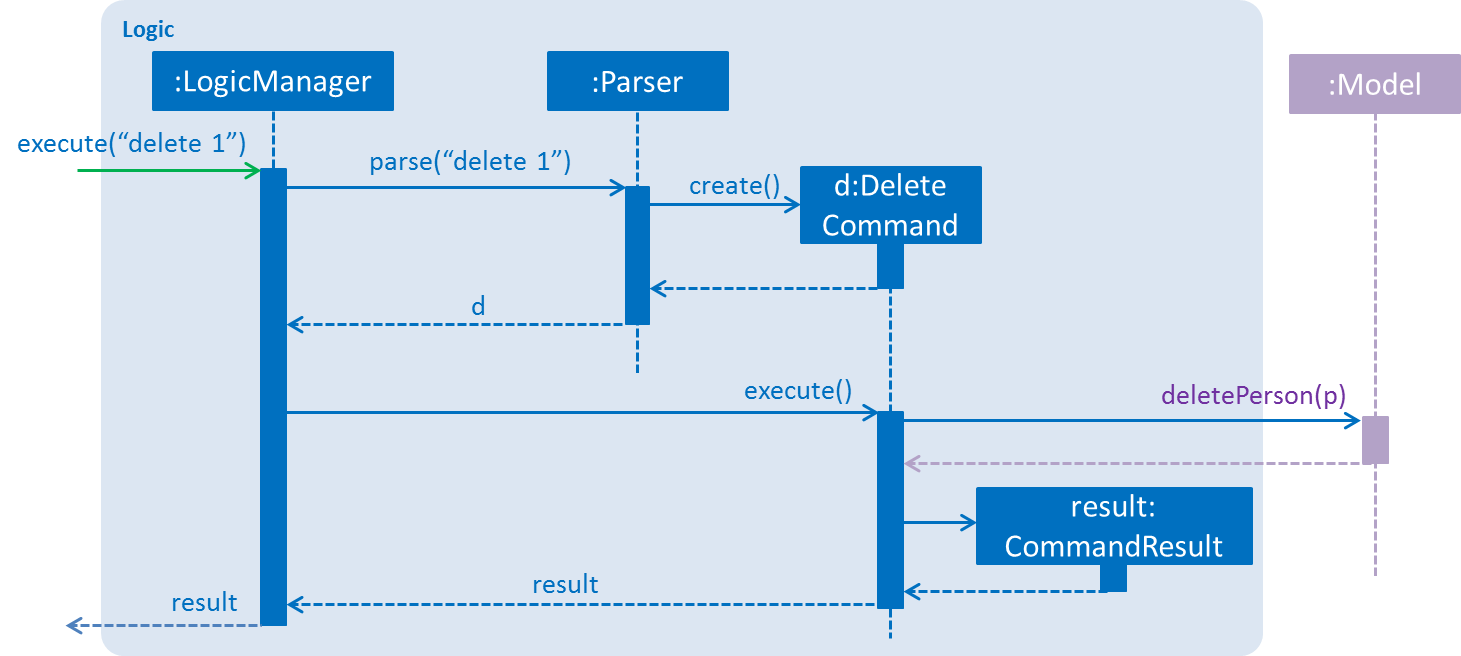
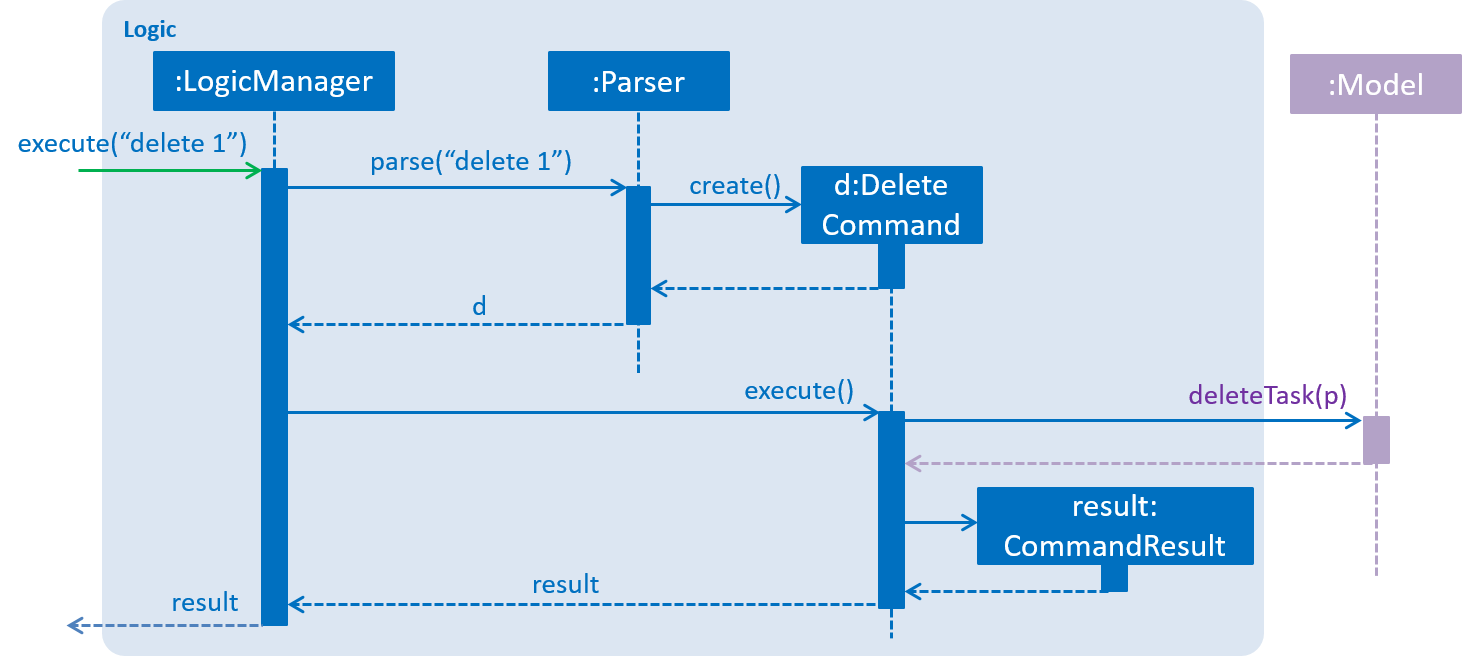
Update other diagrams in Developer Guide

diff --git a/docs/DeveloperGuide.md b/docs/DeveloperGuide.md
@@ -79,7 +79,7 @@ command `delete 3`.
 
 <img src="images\SDforDeletePerson.png" width="800">
 
->Note how the `Model` simply raises a `AddressBookChangedEvent` when the Address Book data are changed,
+>Note how the `Model` simply raises a `TaskManagerChangedEvent` when the Task Manager data are changed,
  instead of asking the `Storage` to save the updates to the hard disk.
 
 The diagram below shows how the `EventsCenter` reacts to that event, which eventually results in the updates
@@ -135,7 +135,8 @@ Given below is the Sequence Diagram for interactions within the `Logic` componen
 
 The `Model`,
 * stores a `UserPref` object that represents the user's preferences.
-* stores the Address Book data.
+* stores the Task Manager data.
+* stores the Task Manager states.
 * exposes a `UnmodifiableObservableList<ReadOnlyPerson>` that can be 'observed' e.g. the UI can be bound to this list
   so that the UI automatically updates when the data in the list change.
 * does not depend on any of the other three components.
@@ -148,7 +149,7 @@ The `Model`,
 
 The `Storage` component,
 * can save `UserPref` objects in json format and read it back.
-* can save the Address Book data in xml format and read it back.
+* can save the Task Manager data in xml format and read it back.
 
 ### Common classes
 
@@ -241,7 +242,7 @@ Here are the steps to create a new release.
    
 ### Managing Dependencies
 
-A project often depends on third-party libraries. For example, Address Book depends on the
+A project often depends on third-party libraries. For example, Task Manager depends on the
 [Jackson library](http://wiki.fasterxml.com/JacksonHome) for XML parsing. Managing these _dependencies_
 can be automated using Gradle. For example, Gradle can download the dependencies automatically, which
 is better than these alternatives.<br>
@@ -267,7 +268,7 @@ Priority | As a ... | I want to ... | So that I can...
 `* *` | user | have some flexibility in the command format | do operations in an intuitively way
 `* * ` | user | add tags to a task | categorize my tasks better
 `* * ` | user with many tasks | filter tasks by attributes such as start time, deadline, tag, and priority | locate some tasks easily
-`*` | user with many tasks in the address book | sort tasks by date or priority level  | know my most important upcoming tasks or know what needs to be done soon. 
+`*` | user with many tasks in the task manager | sort tasks by date or priority level  | know my most important upcoming tasks or know what needs to be done soon. 
 `* ` | user | mark a task as done | monitor my task progression
 `* ` | user | add a recurring task | save my troubles to retype my tasks
 `* ` | user | add priority level to a task| focus on more important tasks
